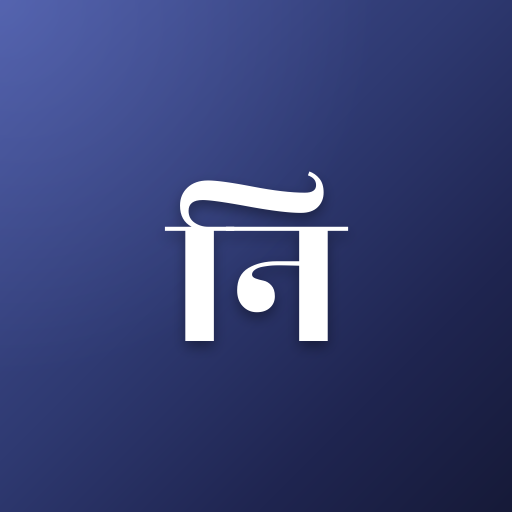
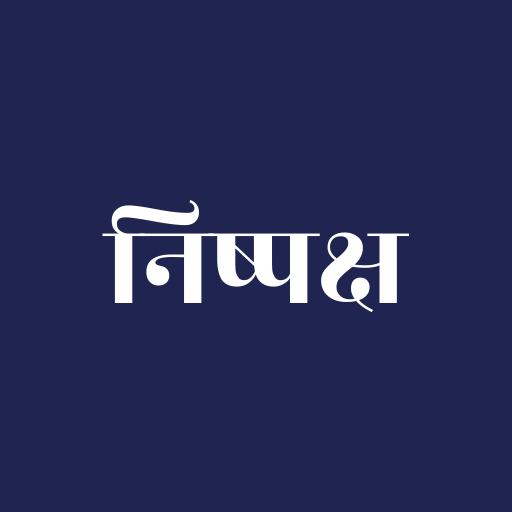
App launch: indigo splash with the wordmark on Android and iPhone, then "Hello." for a second
Android builds its splash from the manifest: background and theme colour are now the header's
indigo and the splash icon is the white निष्पक्ष wordmark on that indigo (the launcher keeps the
gradient icon as the maskable one). iPhones get matching apple-touch-startup-image screens for
every size from the SE to the 17 Pro Max. Opened from the home screen, the page starts on the
same indigo and fades into the deck (wordmark first, at least half a second), so splash and page
read as one. The greeting says "Hello." / "नमस्ते।" for a second, then the time of day.

Claude-Session: https://claude.ai/code/session_01NL1EGfBNXvjV5qMdUvTdpm

diff --git a/site/index.html b/site/index.html
@@ -5,14 +5,33 @@
 <meta name="viewport" content="width=device-width, initial-scale=1, viewport-fit=cover">
 <title>Nishpaksh · निष्पक्ष</title>
 <meta name="description" content="Indian news from every side, written as one story: what is established, what is disputed, and who says what.">
-<meta name="theme-color" content="#2f3a72">
+<meta name="theme-color" content="#1f2550" id="theme">
 <meta name="color-scheme" content="light">
 <meta name="apple-mobile-web-app-capable" content="yes">
 <meta name="apple-mobile-web-app-status-bar-style" content="default">
 <meta name="apple-mobile-web-app-title" content="Nishpaksh">
 <link rel="manifest" href="manifest.webmanifest">
-<link rel="icon" href="icon-192.png" type="image/png">
+<link rel="icon" href="icon-maskable-192.png" type="image/png">
 <link rel="apple-touch-icon" href="apple-touch-icon.png">
+<!-- iPhone splash screens: the same indigo and wordmark as the Android splash (owner, Oct 8 2026) -->
+<link rel="apple-touch-startup-image" media="(device-width: 440px) and (device-height: 956px) and (-webkit-device-pixel-ratio: 3) and (orientation: portrait)" href="splash/1320x2868.png">
+<link rel="apple-touch-startup-image" media="(device-width: 420px) and (device-height: 912px) and (-webkit-device-pixel-ratio: 3) and (orientation: portrait)" href="splash/1260x2736.png">
+<link rel="apple-touch-startup-image" media="(device-width: 402px) and (device-height: 874px) and (-webkit-device-pixel-ratio: 3) and (orientation: portrait)" href="splash/1206x2622.png">
+<link rel="apple-touch-startup-image" media="(device-width: 430px) and (device-height: 932px) and (-webkit-device-pixel-ratio: 3) and (orientation: portrait)" href="splash/1290x2796.png">
+<link rel="apple-touch-startup-image" media="(device-width: 393px) and (device-height: 852px) and (-webkit-device-pixel-ratio: 3) and (orientation: portrait)" href="splash/1179x2556.png">
+<link rel="apple-touch-startup-image" media="(device-width: 428px) and (device-height: 926px) and (-webkit-device-pixel-ratio: 3) and (orientation: portrait)" href="splash/1284x2778.png">
+<link rel="apple-touch-startup-image" media="(device-width: 390px) and (device-height: 844px) and (-webkit-device-pixel-ratio: 3) and (orientation: portrait)" href="splash/1170x2532.png">
+<link rel="apple-touch-startup-image" media="(device-width: 375px) and (device-height: 812px) and (-webkit-device-pixel-ratio: 3) and (orientation: portrait)" href="splash/1125x2436.png">
+<link rel="apple-touch-startup-image" media="(device-width: 414px) and (device-height: 896px) and (-webkit-device-pixel-ratio: 3) and (orientation: portrait)" href="splash/1242x2688.png">
+<link rel="apple-touch-startup-image" media="(device-width: 414px) and (device-height: 896px) and (-webkit-device-pixel-ratio: 2) and (orientation: portrait)" href="splash/828x1792.png">
+<link rel="apple-touch-startup-image" media="(device-width: 375px) and (device-height: 667px) and (-webkit-device-pixel-ratio: 2) and (orientation: portrait)" href="splash/750x1334.png">
+<link rel="apple-touch-startup-image" media="(device-width: 414px) and (device-height: 736px) and (-webkit-device-pixel-ratio: 3) and (orientation: portrait)" href="splash/1242x2208.png">
+<link rel="apple-touch-startup-image" media="(device-width: 320px) and (device-height: 568px) and (-webkit-device-pixel-ratio: 2) and (orientation: portrait)" href="splash/640x1136.png">
+<script>
+  // opened from the home screen: start on the splash's indigo and fade into the page (no jump)
+  if ((matchMedia("(display-mode: standalone)").matches || navigator.standalone) && !/^#\/story\//.test(location.hash))
+    document.documentElement.classList.add("launch");
+</script>
 <link rel="preconnect" href="https://raw.githubusercontent.com" crossorigin>
 <link rel="preconnect" href="https://fonts.googleapis.com">
 <link rel="preconnect" href="https://fonts.gstatic.com" crossorigin>
@@ -188,12 +207,22 @@
     .card { padding: 30px 30px 22px; }
     .card h2 { font-size: 32px; }
   }
+  /* launch screen: the splash, continued inside the page, then faded away */
+  #intro { display: none; }
+  html.launch #intro { display: flex; position: fixed; inset: 0; z-index: 30; align-items: center; justify-content: center;
+                       background: #1f2550; transition: opacity 360ms ease 160ms, visibility 0s linear 520ms; }
+  html.launch #intro img { width: min(52vw, 300px); height: auto; transition: opacity 160ms ease, transform 200ms ease; }
+  html.launch.ready #intro { opacity: 0; visibility: hidden; }
+  html.launch.ready #intro img { opacity: 0; transform: scale(0.96); }
+  .greeting { transition: opacity 220ms ease; }
+  .greeting.swap { opacity: 0; }
   @media (prefers-reduced-motion: reduce) {
     #sheet.anim, #sheet.anim .hbox, #sheet.anim .rise, #sheet.anim .chrome, #sheet.anim .hbox .layer { transition-duration: 1ms !important; transition-delay: 0ms !important; }
   }
 </style>
 </head>
 <body>
+<div id="intro" aria-hidden="true"><img src="mark.png" alt=""></div>
 <div id="app">
   <header class="top brand">
     <div class="wordmark lift" id="wm">Nishpaksh</div>
@@ -237,7 +266,7 @@ const MAX_CARDS = 40;
 
 const T = {
   en: {
-    wordmark: "Nishpaksh", greet: ["Good morning.", "Good afternoon.", "Good evening."],
+    wordmark: "Nishpaksh", hello: "Hello.", greet: ["Good morning.", "Good afternoon.", "Good evening."],
     ago: (n, u) => `${n} ${u} ago`, units: {m: "min", h: "h", d: "d"},
     back: "Back to all stories", sources: (n, o) => `${n} independent source${n === 1 ? "" : "s"}` + (o && o > n ? ` · ${o} outlets` : ""),
     k: {established: "established", developing: "developing", unverified: "not yet cross-checked", single: "one outlet only", disputed: "sources disagree", false: "shown false"},
@@ -255,7 +284,7 @@ const T = {
     bar: (c) => `${c.e} established, ${c.o} one outlet only, ${c.d} disputed, ${c.r} shown false, ${c.u} not yet cross-checked`,
   },
   hi: {
-    wordmark: "निष्पक्ष", greet: ["सुप्रभात।", "नमस्कार।", "शुभ संध्या।"],
+    wordmark: "निष्पक्ष", hello: "नमस्ते।", greet: ["सुप्रभात।", "नमस्कार।", "शुभ संध्या।"],
     ago: (n, u) => `${n} ${u} पहले`, units: {m: "मिनट", h: "घंटे", d: "दिन"},
     back: "सभी ख़बरों पर लौटें", sources: (n, o) => `${n} स्वतंत्र स्रोत` + (o && o > n ? ` · ${o} समाचार माध्यम` : ""),
     k: {established: "स्थापित", developing: "विकसित हो रही", unverified: "अभी पुष्टि नहीं", single: "केवल एक स्रोत", disputed: "स्रोतों में मतभेद", false: "असत्य सिद्ध"},
@@ -677,7 +706,7 @@ function applyLang() {
   document.documentElement.lang = lang;
   document.documentElement.classList.toggle("hi", lang === "hi");
   $("wm").textContent = T[lang].wordmark; $("wm2").textContent = T[lang].wordmark;
-  $("greet").textContent = greeting();
+  $("greet").textContent = greeted ? greeting() : T[lang].hello;
   $("back").setAttribute("aria-label", T[lang].back);
   document.querySelectorAll(".pill button").forEach(b => b.setAttribute("aria-pressed", String(b.dataset.lang === lang)));
 }
@@ -718,7 +747,7 @@ new ResizeObserver(() => { const h = slotHeight(); if (h !== lastH) { lastH = h;
 let hiddenAt = 0;
 document.addEventListener("visibilitychange", () => {
   if (document.hidden) { hiddenAt = Date.now(); return; }
-  $("greet").textContent = greeting();
+  if (greeted) $("greet").textContent = greeting();
   if (hiddenAt && Date.now() - hiddenAt > 15 * 60000) {
     const keep = cards[current] && cards[current].id;
     delete cardCache.en; delete cardCache.hi;
@@ -728,9 +757,34 @@ document.addEventListener("visibilitychange", () => {
   });
 });
 
+/* opening (owner, Oct 8 2026): "Hello." for a second, then the greeting for the time of day; when opened
+   from the home screen the splash's indigo fades away first */
+let greeted = false;
+function greetSoon() {
+  setTimeout(() => {
+    const el = $("greet");
+    el.classList.add("swap");
+    setTimeout(() => { greeted = true; el.textContent = greeting(); el.classList.remove("swap"); }, 220);
+  }, 1000);
+}
+const started = performance.now();
+let revealed = false;
+function revealPage() {
+  if (revealed) return;
+  revealed = true;
+  const root = document.documentElement;
+  if (!root.classList.contains("launch")) { greetSoon(); return; }
+  // the indigo stays at least half a second, so the splash and the page read as one screen
+  setTimeout(() => {
+    root.classList.add("ready");
+    $("theme").setAttribute("content", "#ECECE9");
+    setTimeout(greetSoon, 520);
+  }, Math.max(0, 500 - (performance.now() - started)));
+}
 applyLang();
 track.innerHTML = loadingHtml();
-showDeck();
+showDeck().finally(revealPage);
+setTimeout(revealPage, 1600);     // never hold the splash longer than this
 route(false);
 if (/^#\/story\//.test(location.hash)) openedFromDeck = false;
 

diff --git a/site/sw.js b/site/sw.js
@@ -2,7 +2,8 @@
 // offline use; news (the feed, articles) is always asked for fresh and the last copy is used offline;
 // fonts are kept once loaded.
 const VERSION = "np-main-2";
-const SHELL = ["./", "./index.html", "./manifest.webmanifest", "./icon-192.png", "./icon-512.png", "./apple-touch-icon.png"];
+const SHELL = ["./", "./index.html", "./manifest.webmanifest", "./icon-192.png", "./icon-512.png", "./icon-maskable-192.png",
+               "./icon-maskable-512.png", "./apple-touch-icon.png", "./mark.png"];
 
 self.addEventListener("install", e => {
   e.waitUntil(caches.open(VERSION).then(c => c.addAll(SHELL)).then(() => self.skipWaiting()));
